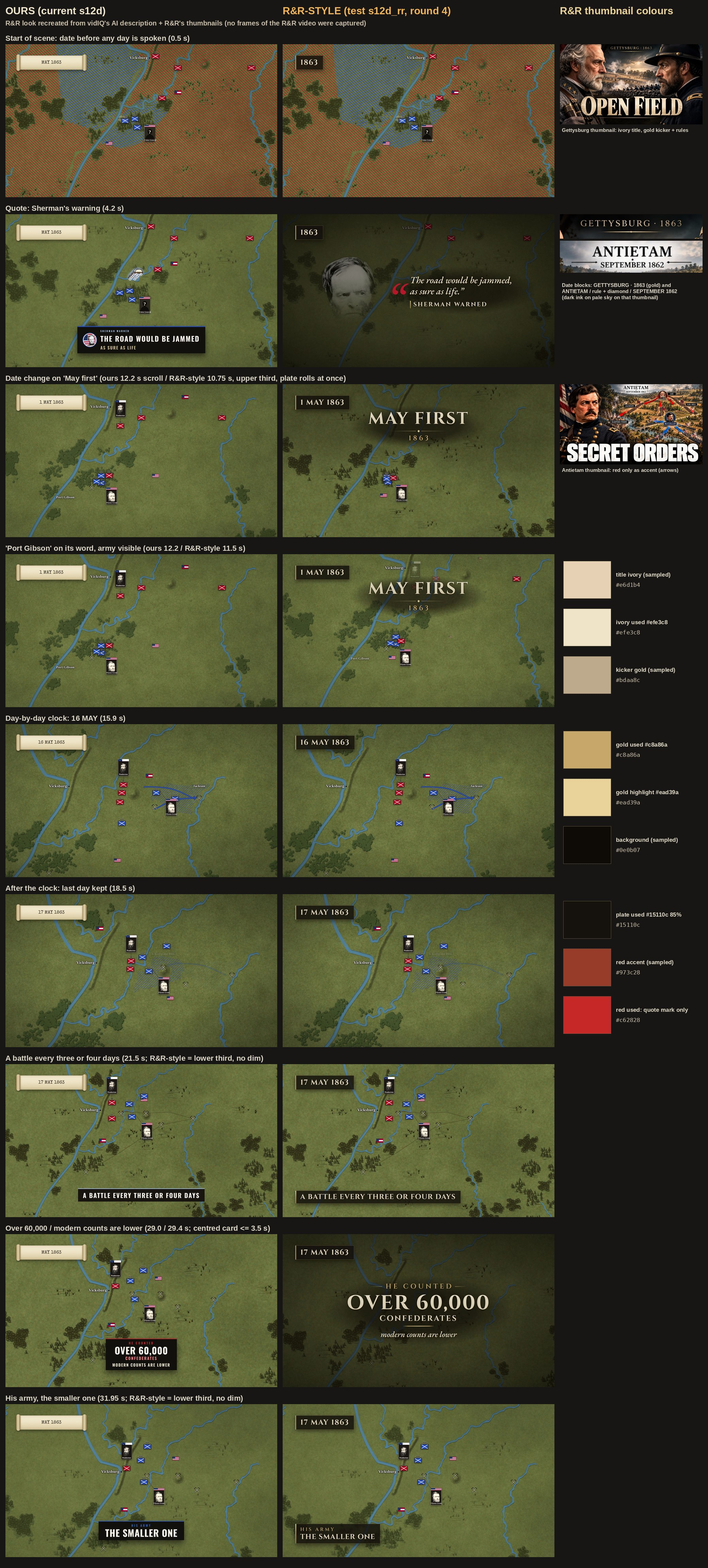
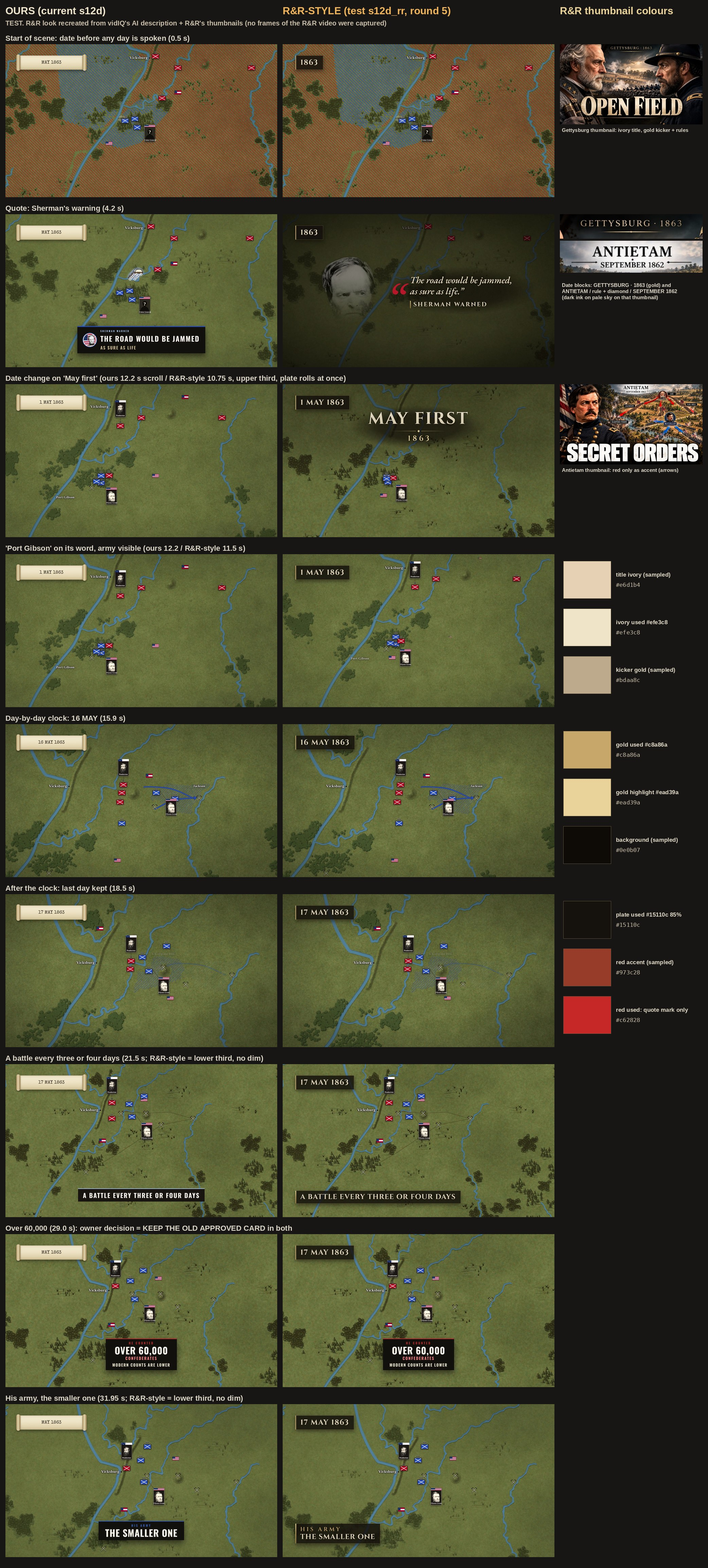
R&R cards round 5: 60,000 card keeps the old look (owner), polish
Claude-Session: https://claude.ai/code/session_011uJnj9PFzMNram5mgUPnoT

Changed region(s): [[0.3743, 0.7806, 0.8109, 0.9055], [0.499, 0.3435, 0.6862, 0.4059]]

diff --git a/grant/scenes-src/s12d_rr.js b/grant/scenes-src/s12d_rr.js
@@ -500,7 +500,7 @@ const RR = ((tl, gsap, SCN, CURV) => {
     const el = document.createElement("div");
     el.style.cssText = `position:absolute;left:0;right:0;top:${o.top ?? 150}px;display:flex;justify-content:center;pointer-events:none`;
     el.innerHTML = `<div class="b" style="padding:30px 130px 34px;text-align:center;${feather}"><div class="rr-t" style="font-size:118px;letter-spacing:.06em">${o.big}</div>
-      <div class="rr-dia"><i></i><b></b><i></i></div>${o.sub ? `<div class="rr-kick" style="font-size:48px"><span>${o.sub}</span></div>` : ""}</div>`;
+      <div class="rr-dia"><i></i><b></b><i></i></div>${o.sub ? `<div class="rr-kick" style="font-size:52px;color:${C.goldHi}"><span>${o.sub}</span></div>` : ""}</div>`;
     add(el, 61);
     tl.fromTo(el, { autoAlpha: 0, y: -10 }, { autoAlpha: 1, y: 0, duration: 0.35, ease: "power2.out", immediateRender: false }, t);
     const dia = el.querySelector(".rr-dia"); gsap.set(dia, { scaleX: 0 }); tl.to(dia, { scaleX: 1, duration: 0.35 }, t + 0.12);
@@ -534,7 +534,7 @@ const RR = ((tl, gsap, SCN, CURV) => {
   const lower = (o) => { const t = o.t, until = Math.min(o.until, t + 3.5), fo = o.fade ?? 0.3;
     const el = document.createElement("div");
     el.style.cssText = `position:absolute;left:90px;bottom:96px;display:flex;align-items:stretch;background:${C.ink};border:1px solid rgba(200,168,106,.55);border-left:none;box-shadow:0 12px 30px rgba(10,6,2,.5);pointer-events:none`;
-    el.innerHTML = `<div style="width:6px;background:linear-gradient(180deg, ${C.goldHi}, ${C.gold} 40%, ${C.goldLo})"></div><div style="padding:16px 34px 18px 28px">${o.kick ? `<div class="rr-kick" style="justify-content:flex-start;font-size:${o.kickSize || 34}px;margin-bottom:2px"><span>${o.kick}</span></div>` : ""}
+    el.innerHTML = `<div style="width:6px;flex:none;background:linear-gradient(180deg, ${C.goldHi}, ${C.gold} 40%, ${C.goldLo})"></div><div style="padding:16px 34px 18px 28px">${o.kick ? `<div class="rr-kick" style="justify-content:flex-start;font-size:${o.kickSize || 36}px;line-height:1.2;white-space:nowrap;flex:none;margin-bottom:2px"><span>${o.kick}</span></div>` : ""}
       <div class="rr-t" style="font-size:${o.size || 50}px;white-space:nowrap">${o.parts.map(([tx], i) => `<span class="p${i}">${tx}</span>`).join(" ")}</div></div>`;
     add(el, 61);
     o.parts.forEach(([, pt], i) => { if (pt != null && pt > t + 0.05) { const sp = el.querySelector(".p" + i); gsap.set(sp, { autoAlpha: 0, display: "none" });
@@ -584,7 +584,7 @@ living(VZ.meters_per_px, [], { n: 6, clouds: 0.12 });
 // ---------- the date scroll: the day-by-day clock (never leaves) ----------
 // RR: the permanent date plate (top-left) + ONE big centred date card where the day-by-day clock starts ("May first"); the later dates roll in the plate
 RR.datePlate("1863");   // round 2: only the year until a day is spoken
-RR.dateCard({ t: T_M1 - 0.05, big: "MAY FIRST", sub: "1863", plate: "1 MAY 1863", hold: 0.7, dimEnd: T_PG - 0.05, top: 150 });   // round 4: Antietam-style card, upper third, light top dim gone before "Port Gibson"; the plate rolls at the card start
+RR.dateCard({ t: T_M1 - 0.05, big: "MAY FIRST", sub: "1863", plate: "1 MAY 1863", hold: 0.4, dimEnd: T_PG - 0.05, top: 150 });   // round 4: Antietam-style card, upper third, light top dim gone before "Port Gibson"; the plate rolls at the card start
 RR.dateRoll("12 MAY 1863", T_12); RR.dateRoll("14 MAY 1863", T_14); RR.dateRoll("16 MAY 1863", T_16); RR.dateRoll("17 MAY 1863", T_17);   // keeps the last day (no step back)
 // ---------- camera ----------
 const K_ = (t, la, lo, s) => [t, ...L(la, lo), s];
@@ -661,16 +661,17 @@ const CARD = (kick, big, sub, col, css, t, until) => scr(`<div style="background
   <div style="font-size:22px;letter-spacing:.3em;color:${col}">${kick}</div><div class="n" style="font-size:66px;letter-spacing:.03em;line-height:1.08">${big}</div>${sub}</div>`, css, t, until);
 const CSS = "left:0;right:0;bottom:120px;display:flex;justify-content:center;";
 const T_CONF = at(P4, "Confederates"), N_U = Math.min(B.T.paras["s12-4"][1], END - 0.3);   // ends with paragraph s12-4
-const N1_U = Math.min(T_60 + 0.1 + 3.5, T_HIS - 0.3);   // round 4: fully gone before the HIS ARMY lower third
-RR.card({ t: T_60 + 0.1, until: N1_U, items: [{ k: "kick", text: "HE COUNTED" }, { k: "title", text: "OVER 60,000", size: 140 },
-  { k: "line", text: "CONFEDERATES", t: T_CONF }, { k: "rule" }, { k: "sub", text: "modern counts are lower", t: T_MOD }] });   // round 3: beat 1 = centred card <= 3.5 s
-RR.lower({ kick: "HIS ARMY", parts: [["THE SMALLER ONE", T_SMALL]], t: T_HIS, until: END - 0.2, fade: 0.2 });   // round 4: held into the pause (the scene cut at 63.8 s ends it)   // round 3: beat 2 = lower third, no dim, on "his army", ends with s12-4
-SFX("hit", T_60 + 0.2);
+// round 5 (owner): the numbers card KEEPS THE OLD APPROVED LOOK + TIMING (verbatim from tools/s12_body_s12d.js)
+const N1_U = Math.min(T_HIS - 0.15, T_60 + 3.3);
+const N1 = CARD("HE COUNTED", "OVER 60,000", `<div style="font-size:28px;letter-spacing:.16em;color:#ff8a80">CONFEDERATES</div><div class="m" style="font-size:28px;letter-spacing:.12em;color:#e8dfc8;margin-top:6px">MODERN COUNTS ARE LOWER</div>`, "#be3a2a", CSS, T_60 + 0.45, N1_U);
+{ const m = N1.querySelector(".m"); gsap.set(m, { autoAlpha: 0 }); tl.fromTo(m, { autoAlpha: 0, y: 8 }, { autoAlpha: 1, y: 0, duration: 0.3, immediateRender: false }, T_MOD); } SFX("hit", T_60 + 0.55);
+const T_HA = Math.max(T_HIS, N1_U + 0.5);   // R&R lower third lands on "his army", after the old card's 0.5 s fade-out (no overlap)
+RR.lower({ kick: "HIS ARMY", kickSize: 40, parts: [["THE SMALLER ONE", T_SMALL]], t: T_HA, until: END - 0.2, fade: 0.2 });   // held to the scene cut
 SFX("hit", T_SMALL + 0.05);
 // the ring closes on Vicksburg (hand-off to s12e: the siege)
 B.move("u13", T_COUNT, 5, ...L(32.41, -90.76)); B.move("u17", T_COUNT + 0.3, 5, ...L(32.30, -90.74)); B.move("u15", T_COUNT + 0.5, 5, ...L(32.48, -90.72));
 B.move("rv", T_COUNT + 0.5, 4, ...L(32.37, -90.845)); tl.to(B.units.re.el, { autoAlpha: 0, duration: 0.8 }, T_COUNT + 2.5);
-declutter([], [[T_JAM - 0.1, SHC_U], [T_M1 - 0.05, T_M1 + 1.4], [T_EVERY + 0.1, ST_U], [T_60 + 0.1, N1_U], [T_HIS, N_U]]);
+declutter([], [[T_JAM - 0.1, SHC_U], [T_M1 - 0.05, T_M1 + 1.4], [T_EVERY + 0.1, ST_U], [T_60 + 0.45, N1_U], [T_HA, N_U]]);
 document.documentElement.setAttribute("data-rrt", JSON.stringify({ T_JAM, T_LIFE, T_UNF, T_M1, T_PG, T_12, T_16, T_17, T_EVERY, T_34, T_ATE, T_COUNT, T_60, T_CONF, T_MOD, T_HIS, T_SMALL, N_U, END, SHC_U }));
 // ===== FORM 2 (owner 2026-11-07, approved v2 stripes, used SPARINGLY: 3 short perspective moments in the clip): clear STRIPES for BOTH sides (Confederate ground red lines, Union ground blue lines), no fill between
 // the lines; the stripes are drawn through alpha masks (tools/s12_make_mask.py) and keep a constant on-screen width/spacing at every camera scale

diff --git a/grant/tools/s12_body_s12d_rr.js b/grant/tools/s12_body_s12d_rr.js
@@ -24,7 +24,7 @@ living(VZ.meters_per_px, [], { n: 6, clouds: 0.12 });
 // ---------- the date scroll: the day-by-day clock (never leaves) ----------
 // RR: the permanent date plate (top-left) + ONE big centred date card where the day-by-day clock starts ("May first"); the later dates roll in the plate
 RR.datePlate("1863");   // round 2: only the year until a day is spoken
-RR.dateCard({ t: T_M1 - 0.05, big: "MAY FIRST", sub: "1863", plate: "1 MAY 1863", hold: 0.7, dimEnd: T_PG - 0.05, top: 150 });   // round 4: Antietam-style card, upper third, light top dim gone before "Port Gibson"; the plate rolls at the card start
+RR.dateCard({ t: T_M1 - 0.05, big: "MAY FIRST", sub: "1863", plate: "1 MAY 1863", hold: 0.4, dimEnd: T_PG - 0.05, top: 150 });   // round 4: Antietam-style card, upper third, light top dim gone before "Port Gibson"; the plate rolls at the card start
 RR.dateRoll("12 MAY 1863", T_12); RR.dateRoll("14 MAY 1863", T_14); RR.dateRoll("16 MAY 1863", T_16); RR.dateRoll("17 MAY 1863", T_17);   // keeps the last day (no step back)
 // ---------- camera ----------
 const K_ = (t, la, lo, s) => [t, ...L(la, lo), s];
@@ -101,16 +101,17 @@ const CARD = (kick, big, sub, col, css, t, until) => scr(`<div style="background
   <div style="font-size:22px;letter-spacing:.3em;color:${col}">${kick}</div><div class="n" style="font-size:66px;letter-spacing:.03em;line-height:1.08">${big}</div>${sub}</div>`, css, t, until);
 const CSS = "left:0;right:0;bottom:120px;display:flex;justify-content:center;";
 const T_CONF = at(P4, "Confederates"), N_U = Math.min(B.T.paras["s12-4"][1], END - 0.3);   // ends with paragraph s12-4
-const N1_U = Math.min(T_60 + 0.1 + 3.5, T_HIS - 0.3);   // round 4: fully gone before the HIS ARMY lower third
-RR.card({ t: T_60 + 0.1, until: N1_U, items: [{ k: "kick", text: "HE COUNTED" }, { k: "title", text: "OVER 60,000", size: 140 },
-  { k: "line", text: "CONFEDERATES", t: T_CONF }, { k: "rule" }, { k: "sub", text: "modern counts are lower", t: T_MOD }] });   // round 3: beat 1 = centred card <= 3.5 s
-RR.lower({ kick: "HIS ARMY", parts: [["THE SMALLER ONE", T_SMALL]], t: T_HIS, until: END - 0.2, fade: 0.2 });   // round 4: held into the pause (the scene cut at 63.8 s ends it)   // round 3: beat 2 = lower third, no dim, on "his army", ends with s12-4
-SFX("hit", T_60 + 0.2);
+// round 5 (owner): the numbers card KEEPS THE OLD APPROVED LOOK + TIMING (verbatim from tools/s12_body_s12d.js)
+const N1_U = Math.min(T_HIS - 0.15, T_60 + 3.3);
+const N1 = CARD("HE COUNTED", "OVER 60,000", `<div style="font-size:28px;letter-spacing:.16em;color:#ff8a80">CONFEDERATES</div><div class="m" style="font-size:28px;letter-spacing:.12em;color:#e8dfc8;margin-top:6px">MODERN COUNTS ARE LOWER</div>`, "#be3a2a", CSS, T_60 + 0.45, N1_U);
+{ const m = N1.querySelector(".m"); gsap.set(m, { autoAlpha: 0 }); tl.fromTo(m, { autoAlpha: 0, y: 8 }, { autoAlpha: 1, y: 0, duration: 0.3, immediateRender: false }, T_MOD); } SFX("hit", T_60 + 0.55);
+const T_HA = Math.max(T_HIS, N1_U + 0.5);   // R&R lower third lands on "his army", after the old card's 0.5 s fade-out (no overlap)
+RR.lower({ kick: "HIS ARMY", kickSize: 40, parts: [["THE SMALLER ONE", T_SMALL]], t: T_HA, until: END - 0.2, fade: 0.2 });   // held to the scene cut
 SFX("hit", T_SMALL + 0.05);
 // the ring closes on Vicksburg (hand-off to s12e: the siege)
 B.move("u13", T_COUNT, 5, ...L(32.41, -90.76)); B.move("u17", T_COUNT + 0.3, 5, ...L(32.30, -90.74)); B.move("u15", T_COUNT + 0.5, 5, ...L(32.48, -90.72));
 B.move("rv", T_COUNT + 0.5, 4, ...L(32.37, -90.845)); tl.to(B.units.re.el, { autoAlpha: 0, duration: 0.8 }, T_COUNT + 2.5);
-declutter([], [[T_JAM - 0.1, SHC_U], [T_M1 - 0.05, T_M1 + 1.4], [T_EVERY + 0.1, ST_U], [T_60 + 0.1, N1_U], [T_HIS, N_U]]);
+declutter([], [[T_JAM - 0.1, SHC_U], [T_M1 - 0.05, T_M1 + 1.4], [T_EVERY + 0.1, ST_U], [T_60 + 0.45, N1_U], [T_HA, N_U]]);
 document.documentElement.setAttribute("data-rrt", JSON.stringify({ T_JAM, T_LIFE, T_UNF, T_M1, T_PG, T_12, T_16, T_17, T_EVERY, T_34, T_ATE, T_COUNT, T_60, T_CONF, T_MOD, T_HIS, T_SMALL, N_U, END, SHC_U }));
 // ===== FORM 2 (owner 2026-11-07, approved v2 stripes, used SPARINGLY: 3 short perspective moments in the clip): clear STRIPES for BOTH sides (Confederate ground red lines, Union ground blue lines), no fill between
 // the lines; the stripes are drawn through alpha masks (tools/s12_make_mask.py) and keep a constant on-screen width/spacing at every camera scale

diff --git a/research/style_tests/rr_cards/rr_cards.js b/research/style_tests/rr_cards/rr_cards.js
@@ -88,7 +88,7 @@ const RR = ((tl, gsap, SCN, CURV) => {
     const el = document.createElement("div");
     el.style.cssText = `position:absolute;left:0;right:0;top:${o.top ?? 150}px;display:flex;justify-content:center;pointer-events:none`;
     el.innerHTML = `<div class="b" style="padding:30px 130px 34px;text-align:center;${feather}"><div class="rr-t" style="font-size:118px;letter-spacing:.06em">${o.big}</div>
-      <div class="rr-dia"><i></i><b></b><i></i></div>${o.sub ? `<div class="rr-kick" style="font-size:48px"><span>${o.sub}</span></div>` : ""}</div>`;
+      <div class="rr-dia"><i></i><b></b><i></i></div>${o.sub ? `<div class="rr-kick" style="font-size:52px;color:${C.goldHi}"><span>${o.sub}</span></div>` : ""}</div>`;
     add(el, 61);
     tl.fromTo(el, { autoAlpha: 0, y: -10 }, { autoAlpha: 1, y: 0, duration: 0.35, ease: "power2.out", immediateRender: false }, t);
     const dia = el.querySelector(".rr-dia"); gsap.set(dia, { scaleX: 0 }); tl.to(dia, { scaleX: 1, duration: 0.35 }, t + 0.12);
@@ -122,7 +122,7 @@ const RR = ((tl, gsap, SCN, CURV) => {
   const lower = (o) => { const t = o.t, until = Math.min(o.until, t + 3.5), fo = o.fade ?? 0.3;
     const el = document.createElement("div");
     el.style.cssText = `position:absolute;left:90px;bottom:96px;display:flex;align-items:stretch;background:${C.ink};border:1px solid rgba(200,168,106,.55);border-left:none;box-shadow:0 12px 30px rgba(10,6,2,.5);pointer-events:none`;
-    el.innerHTML = `<div style="width:6px;background:linear-gradient(180deg, ${C.goldHi}, ${C.gold} 40%, ${C.goldLo})"></div><div style="padding:16px 34px 18px 28px">${o.kick ? `<div class="rr-kick" style="justify-content:flex-start;font-size:${o.kickSize || 34}px;margin-bottom:2px"><span>${o.kick}</span></div>` : ""}
+    el.innerHTML = `<div style="width:6px;flex:none;background:linear-gradient(180deg, ${C.goldHi}, ${C.gold} 40%, ${C.goldLo})"></div><div style="padding:16px 34px 18px 28px">${o.kick ? `<div class="rr-kick" style="justify-content:flex-start;font-size:${o.kickSize || 36}px;line-height:1.2;white-space:nowrap;flex:none;margin-bottom:2px"><span>${o.kick}</span></div>` : ""}
       <div class="rr-t" style="font-size:${o.size || 50}px;white-space:nowrap">${o.parts.map(([tx], i) => `<span class="p${i}">${tx}</span>`).join(" ")}</div></div>`;
     add(el, 61);
     o.parts.forEach(([, pt], i) => { if (pt != null && pt > t + 0.05) { const sp = el.querySelector(".p" + i); gsap.set(sp, { autoAlpha: 0, display: "none" });

diff --git a/research/style_tests/rr_cards/RR_CARDS_STUDY.md b/research/style_tests/rr_cards/RR_CARDS_STUDY.md
@@ -71,7 +71,7 @@ follow our rule 1c.1 strictly. Our version keeps 1c.1: card words are spoken wor
 | quote | Oswald on a black box, blue left bar | italic serif, giant red quote mark, attribution with red bar, portrait behind |
 | motion | 0.5 s slide-up 30 px | 0.5 s fade + slow ~2 % push |
 
-## 3. The test build, round 4 (after 3 critic rounds + the owner's colour note; recreated from vidIQ's AI description + R&R's thumbnails)
+## 3. The test build, round 5 (after 3 critic rounds + the owner's colour note; recreated from vidIQ's AI description + R&R's thumbnails)
 Helpers `rr_cards.js`, scene copy `grant/scenes/s12d_rr` (built by `build_rr.py`), `snapshots/`, `compare_sheet.jpg`, `rr_cards_demo.mp4`.
 - **Colours (owner: keep R&R's colours)**, sampled from R&R's real thumbnails (Gettysburg "OPEN FIELD", Antietam "SECRET ORDERS"):
   title ivory ~#e6d1b4 (used #efe3c8 -> #e2d1ac with a light grain, warm dark shadow), muted gold kicker/rules ~#bda98a-#c8b48e
@@ -89,7 +89,8 @@ Helpers `rr_cards.js`, scene copy `grant/scenes/s12d_rr` (built by `build_rr.py`
   fade out while it is up (`RR.guard`).
 - **Cards**: Sherman quote (~3 s; darkened portrait with a strong bottom fade, narrator's words + the verbatim *as sure as life* with
   the big red hanging mark, gold bar matched to SHERMAN WARNED); "A BATTLE EVERY / THREE OR FOUR DAYS" lower third (no dim; the box comes
-  in with its first words and grows when "THREE OR FOUR DAYS" lands on its words); centred card HE COUNTED / OVER 60,000 / CONFEDERATES /
-  *modern counts are lower* (<= 3.5 s, fully gone before "his army"); lower third HIS ARMY / THE SMALLER ONE (on "his army" / "the
+  in with its first words and grows when "THREE OR FOUR DAYS" lands on its words); the numbers card HE COUNTED / OVER 60,000 / CONFEDERATES / MODERN COUNTS ARE LOWER KEEPS THE OLD APPROVED LOOK and timing (owner decision, round 5; verbatim from the approved s12d); lower third HIS ARMY / THE SMALLER ONE (on "his army", right after the old card's fade-out / "the
   smaller one"), held to the scene cut (63.6 s voice; the s12d/s12e cut at 63.8 s stops it going further into the pause).
 - No new sounds: only the original `hit` cues.
+- Round 5 polish: "1863" under the big date card brighter gold #ead39a at 52 px; big date card held 0.4 s (fades 0.3 s sooner);
+  lower-third gold bar 6 px; the HIS ARMY kicker keeps 40 px; no TEST caption in the video frames (label only here and on the sheet).
